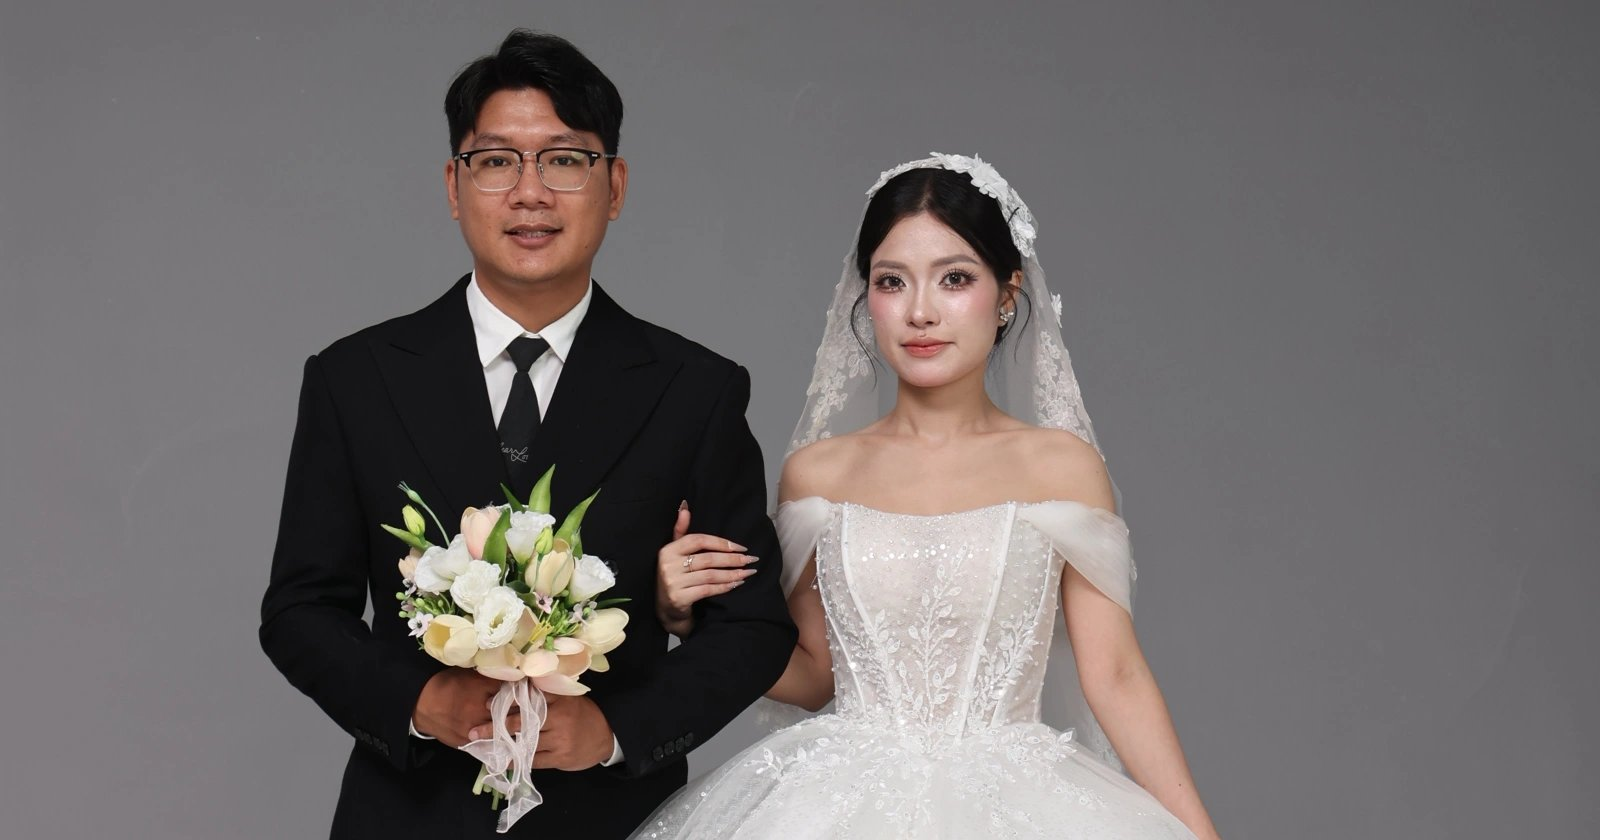
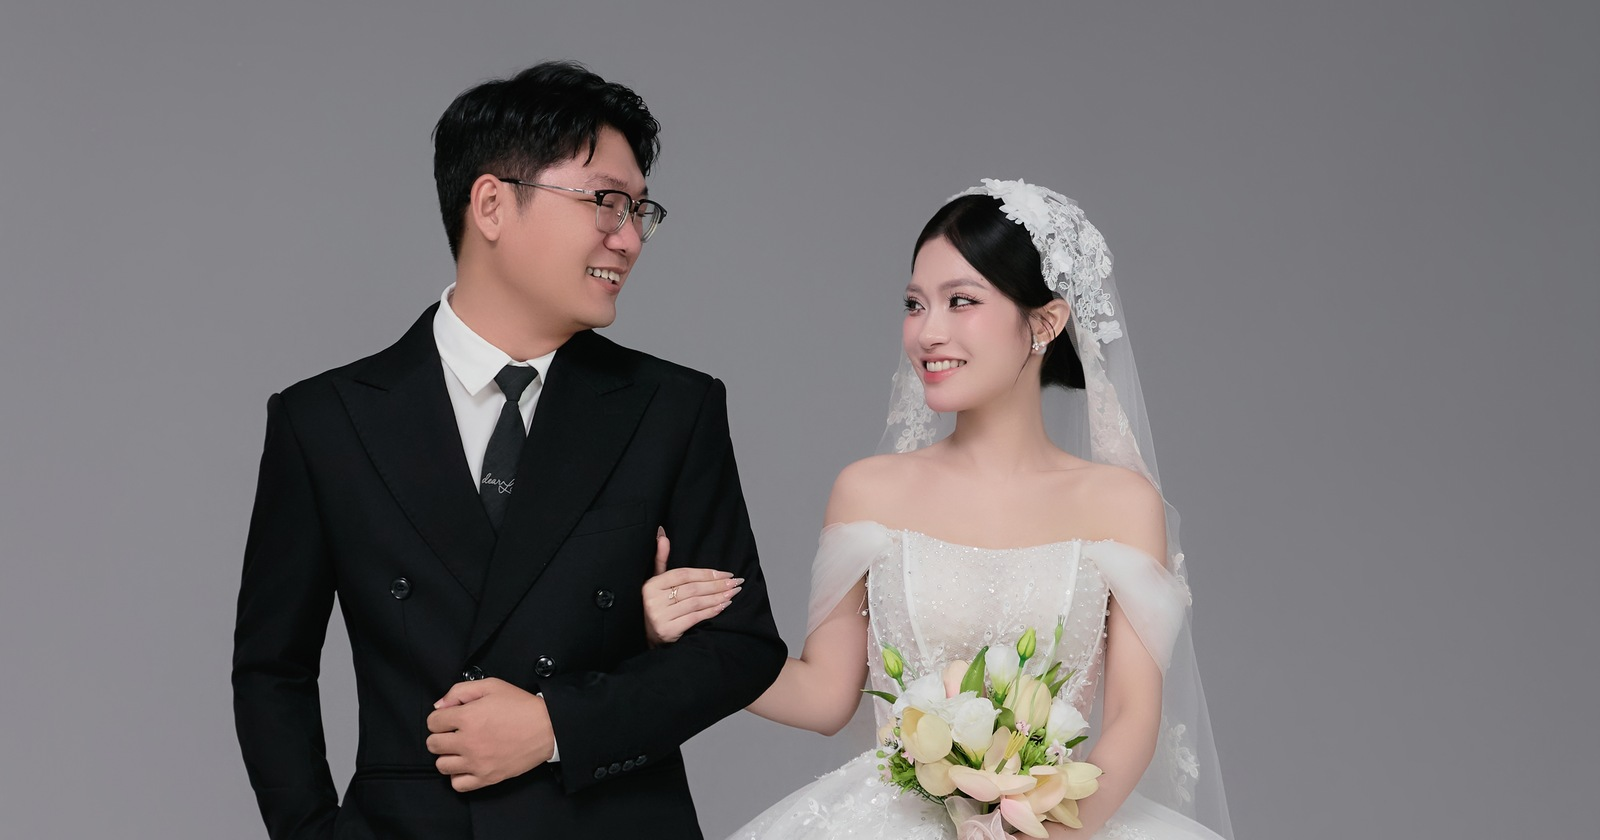
Cap nhat noi dung le cuoi va anh og-cover moi

Changed region(s): [[0.125, 0.031, 0.7812, 1.0], [0.9688, 0.0, 1.0, 0.031]]

diff --git a/index.html b/index.html
@@ -13,10 +13,11 @@
   <meta property="og:title" content="Mạnh Dưỡng & Quỳnh Như — Thiệp Cưới Online">
   <meta property="og:description"
     content="Kính mời quý khách đến dự lễ cưới của Mạnh Dưỡng &amp; Quỳnh Như | Chủ Nhật, 18 tháng 10, 2026 | Nhà thờ Trung Lao, Ninh Bình">
-  <!-- Facebook/Zalo bắt buộc URL tuyệt đối, không nhận đường dẫn tương đối.
-       Nếu sau này đổi tên repo hoặc dùng tên miền riêng, phải sửa 2 dòng dưới. -->
-  <meta property="og:url" content="https://vudinhduy26.github.io/manhduong-quynhnhu/">
-  <meta property="og:image" content="https://vudinhduy26.github.io/manhduong-quynhnhu/images/og-cover.jpg">
+  <!-- Facebook/Zalo bắt buộc URL tuyệt đối, không nhận đường dẫn tương đối. -->
+  <meta property="og:url" content="https://manhduong941.github.io/manhduongquynhnhu/">
+  <meta property="og:image" content="https://manhduong941.github.io/manhduongquynhnhu/images/og-cover.jpg?v=2">
+  <meta property="og:image:secure_url" content="https://manhduong941.github.io/manhduongquynhnhu/images/og-cover.jpg?v=2">
+  <meta property="og:image:type" content="image/jpeg">
   <meta property="og:image:width" content="1600">
   <meta property="og:image:height" content="840">
 
@@ -164,7 +165,7 @@
                 <span>Ông Nguyễn Văn Viên</span>
                 <span>Bà Vũ Thị Hồng</span>
               </p>
-              <p class="parents-address">Trung Lao, Xã Cổ Lễ, Ninh Bình</p>
+              <p class="parents-address">Xóm 3, Trung Lao, Xã Cổ Lễ, Tỉnh Ninh Bình</p>
             </div>
 
             <div class="parents-divider" aria-hidden="true"></div>
@@ -175,7 +176,7 @@
                 <span>Ông Vũ Đình Việt</span>
                 <span>Bà Phạm Thị Phương</span>
               </p>
-              <p class="parents-address">129 đường Hữu Nghị, Xã Cổ Lễ, Tỉnh Ninh Bình</p>
+              <p class="parents-address">Số 129 đường Hữu Nghị, Xã Cổ Lễ, Tỉnh Ninh Bình</p>
             </div>
           </div>
 
@@ -192,15 +193,43 @@
           </div>
 
           <div class="ceremony-strip">
-            <p class="ceremony-strip-label">Lễ thành hôn được cử hành tại</p>
-            <p class="ceremony-strip-place">Nhà Thờ Trung Lao</p>
-            <p class="ceremony-strip-sub">Trung Lao, Xã Cổ Lễ, Tỉnh Ninh Bình</p>
-            <div class="ceremony-date-block">
-              <span class="ceremony-date-day">18</span>
-              <span class="ceremony-date-rest">Tháng 10<br>2026</span>
+            <p class="ceremony-strip-label">Lễ Thành Hôn</p>
+
+            <div class="ceremony-leaf-decor" aria-hidden="true">
+              <svg width="68" height="24" viewBox="0 0 120 40" fill="none">
+                <path d="M12 20 C40 18, 80 18, 108 20" stroke="var(--gold)" stroke-width="1.4" stroke-linecap="round" />
+                <path d="M28 19 C24 9, 36 10, 37 19" fill="var(--gold)" fill-opacity="0.45" stroke="var(--gold)" stroke-width="1" />
+                <path d="M48 19 C45 8, 58 8, 57 19" fill="var(--gold)" fill-opacity="0.45" stroke="var(--gold)" stroke-width="1" />
+                <path d="M68 19 C66 7, 78 8, 77 19" fill="var(--gold)" fill-opacity="0.45" stroke="var(--gold)" stroke-width="1" />
+                <path d="M88 19 C87 9, 98 10, 96 19" fill="var(--gold)" fill-opacity="0.45" stroke="var(--gold)" stroke-width="1" />
+                <path d="M20 21 C17 30, 29 30, 29 21" fill="var(--gold)" fill-opacity="0.45" stroke="var(--gold)" stroke-width="1" />
+                <path d="M40 21 C38 31, 50 31, 49 21" fill="var(--gold)" fill-opacity="0.45" stroke="var(--gold)" stroke-width="1" />
+                <path d="M60 21 C58 32, 70 32, 69 21" fill="var(--gold)" fill-opacity="0.45" stroke="var(--gold)" stroke-width="1" />
+                <path d="M80 21 C79 31, 91 30, 89 21" fill="var(--gold)" fill-opacity="0.45" stroke="var(--gold)" stroke-width="1" />
+              </svg>
             </div>
-            <p class="ceremony-strip-time">Vào lúc 11:00 &nbsp;·&nbsp; Chủ Nhật</p>
-            <p class="ceremony-lunar-date">(Tức ngày 8 tháng 9 năm Bính Ngọ)</p>
+
+            <div class="ceremony-dual-grid">
+              <div class="ceremony-col">
+                <h3 class="ceremony-col-title">THÁNH LỄ HÔN PHỐI</h3>
+                <p class="ceremony-col-place">NHÀ THỜ TRUNG LAO</p>
+                <p class="ceremony-col-address">XÃ CỔ LỄ, TỈNH NINH BÌNH</p>
+                <p class="ceremony-col-time">VÀO LÚC: 16 GIỜ 30 - THỨ BẢY</p>
+                <div class="ceremony-col-date">17 . 10 . 2026</div>
+                <p class="ceremony-col-lunar">(NHẰM NGÀY 08.09 NĂM BÍNH NGỌ)</p>
+              </div>
+
+              <div class="ceremony-divider" aria-hidden="true"></div>
+
+              <div class="ceremony-col">
+                <h3 class="ceremony-col-title">ĐÓN DÂU</h3>
+                <p class="ceremony-col-place">TẠI: TƯ GIA NHÀ GÁI</p>
+                <p class="ceremony-col-address">XÃ CỔ LỄ, TỈNH NINH BÌNH</p>
+                <p class="ceremony-col-time">VÀO LÚC: 10 GIỜ 00 - CHỦ NHẬT</p>
+                <div class="ceremony-col-date">18 . 10 . 2026</div>
+                <p class="ceremony-col-lunar">(NHẰM NGÀY 09.09 NĂM BÍNH NGỌ)</p>
+              </div>
+            </div>
           </div>
         </article>
       </div>
@@ -427,13 +456,13 @@
 
           <div class="map-frame">
             <iframe
-              src="https://www.google.com/maps?q=129%20%C4%91%C6%B0%E1%BB%9Dng%20H%E1%BB%AFu%20Ngh%E1%BB%8B%2C%20X%C3%A3%20C%E1%BB%95%20L%E1%BB%85%2C%20T%E1%BB%89nh%20Ninh%20B%C3%ACnh&output=embed"
+              src="https://www.google.com/maps?q=S%E1%BB%91%20129%20%C4%91%C6%B0%E1%BB%9Dng%20H%E1%BB%AFu%20Ngh%E1%BB%8B%2C%20X%C3%A3%20C%E1%BB%95%20L%E1%BB%85%2C%20T%E1%BB%89nh%20Ninh%20B%C3%ACnh&output=embed"
               width="100%" height="220" style="border:0;" allowfullscreen="" loading="lazy"
               referrerpolicy="no-referrer-when-downgrade" title="Bản đồ địa điểm tiệc cưới"></iframe>
           </div>
 
           <div class="ceremony-actions">
-            <a href="https://www.google.com/maps/search/?api=1&amp;query=129%20%C4%91%C6%B0%E1%BB%9Dng%20H%E1%BB%AFu%20Ngh%E1%BB%8B%2C%20X%C3%A3%20C%E1%BB%95%20L%E1%BB%85%2C%20T%E1%BB%89nh%20Ninh%20B%C3%ACnh"
+            <a href="https://www.google.com/maps/search/?api=1&amp;query=S%E1%BB%91%20129%20%C4%91%C6%B0%E1%BB%9Dng%20H%E1%BB%AFu%20Ngh%E1%BB%8B%2C%20X%C3%A3%20C%E1%BB%95%20L%E1%BB%85%2C%20T%E1%BB%89nh%20Ninh%20B%C3%ACnh"
               target="_blank" rel="noopener" class="btn-action btn-primary">
               <svg width="16" height="16" viewBox="0 0 24 24" fill="none" stroke="currentColor" stroke-width="2">
                 <path d="M12 2C8.13 2 5 5.13 5 9c0 5.25 7 13 7 13s7-7.75 7-13c0-3.87-3.13-7-7-7z" />

diff --git a/styles.css b/styles.css
@@ -981,72 +981,149 @@ html.no-scroll body {
 }
 
 /* -- Ceremony strip inside the wedding info card -- */
+.ceremony-strip {
+  padding-top: 4px;
+}
+
 .ceremony-strip-label {
   font-family: var(--font-label);
   font-size: 0.78rem;
-  letter-spacing: 2px;
+  letter-spacing: 2.5px;
   text-transform: uppercase;
-  color: var(--text-cream-dim);
-  margin-bottom: 6px;
-}
-
-.ceremony-strip-place {
-  font-family: var(--font-serif);
-  font-size: 1.45rem;
+  color: var(--gold-light);
+  margin-bottom: 8px;
   font-weight: 600;
-  color: var(--text-cream);
-  margin-bottom: 4px;
 }
 
-.ceremony-strip-sub {
-  font-family: var(--font-body);
-  font-size: 0.82rem;
-  font-style: italic;
-  color: var(--text-cream-faint);
-  margin-bottom: 18px;
-}
-
-.ceremony-date-block {
-  display: inline-flex;
+.ceremony-leaf-decor {
+  display: flex;
   align-items: center;
-  gap: 12px;
-  background: rgba(236, 228, 216, 0.94);
-  color: var(--red);
-  border-radius: 10px;
-  padding: 8px 22px;
-  margin-bottom: 12px;
+  justify-content: center;
+  margin: 0 auto 14px;
+  color: var(--gold);
 }
 
-.ceremony-date-day {
-  font-family: 'Times New Roman', Times, serif;
-  font-size: 2.4rem;
-  font-weight: 700;
-  line-height: 1;
+.ceremony-leaf-decor svg {
+  width: 52px;
+  height: auto;
+  opacity: 0.88;
 }
 
-.ceremony-date-rest {
-  font-family: 'Times New Roman', Times, serif;
-  font-size: 0.85rem;
-  letter-spacing: 1.5px;
+.ceremony-dual-grid {
+  display: grid;
+  grid-template-columns: 1fr auto 1fr;
+  align-items: stretch;
+  gap: 14px;
+  text-align: center;
+}
+
+.ceremony-divider {
+  width: 1px;
+  align-self: stretch;
+  background: linear-gradient(to bottom, transparent, rgba(236, 228, 216, 0.3) 15%, rgba(236, 228, 216, 0.3) 85%, transparent);
+}
+
+.ceremony-col {
+  display: flex;
+  flex-direction: column;
+  align-items: center;
+  justify-content: flex-start;
+}
+
+.ceremony-col-title {
+  font-family: var(--font-serif);
+  font-size: 0.82rem;
+  font-weight: 600;
+  letter-spacing: 1.2px;
   text-transform: uppercase;
-  text-align: left;
-  line-height: 1.2;
+  color: var(--gold-light);
+  margin-bottom: 4px;
+  line-height: 1.3;
 }
 
-.ceremony-strip-time {
+.ceremony-col-place {
+  font-family: var(--font-serif);
+  font-size: 0.84rem;
+  font-weight: 600;
+  letter-spacing: 0.8px;
+  text-transform: uppercase;
+  color: var(--text-cream);
+  margin-bottom: 3px;
+  line-height: 1.3;
+}
+
+.ceremony-col-address {
   font-family: var(--font-body);
-  font-size: 0.88rem;
+  font-size: 0.72rem;
+  color: var(--text-cream-dim);
+  letter-spacing: 0.3px;
+  text-transform: uppercase;
+  margin-bottom: 8px;
+  line-height: 1.35;
+}
+
+.ceremony-col-time {
+  font-family: var(--font-body);
+  font-size: 0.75rem;
   color: var(--text-cream);
   font-weight: 500;
-  margin-bottom: 4px;
+  letter-spacing: 0.3px;
+  text-transform: uppercase;
+  margin-bottom: 6px;
+  line-height: 1.35;
 }
 
-.ceremony-lunar-date {
+.ceremony-col-date {
+  font-family: var(--font-serif);
+  font-size: 1.12rem;
+  font-weight: 600;
+  letter-spacing: 2px;
+  color: #ffffff;
+  text-shadow: 0 1px 6px rgba(0, 0, 0, 0.3);
+  margin-bottom: 4px;
+  line-height: 1.15;
+}
+
+.ceremony-col-lunar {
   font-family: var(--font-body);
-  font-size: 0.78rem;
+  font-size: 0.66rem;
   color: var(--text-cream-dim);
   font-style: italic;
-  letter-spacing: 0.5px;
+  letter-spacing: 0.3px;
+  text-transform: uppercase;
+  line-height: 1.3;
+}
+
+@media (max-width: 480px) {
+  .ceremony-dual-grid {
+    gap: 8px;
+  }
+
+  .ceremony-col-title {
+    font-size: 0.76rem;
+    letter-spacing: 0.8px;
+  }
+
+  .ceremony-col-place {
+    font-size: 0.78rem;
+  }
+
+  .ceremony-col-address {
+    font-size: 0.68rem;
+  }
+
+  .ceremony-col-time {
+    font-size: 0.7rem;
+  }
+
+  .ceremony-col-date {
+    font-size: 1rem;
+    letter-spacing: 1.5px;
+  }
+
+  .ceremony-col-lunar {
+    font-size: 0.62rem;
+  }
 }
 
 /* ==========================================================================

diff --git a/app.js b/app.js
@@ -550,8 +550,8 @@ document.addEventListener('DOMContentLoaded', () => {
   if (btnAddCalendar) {
     btnAddCalendar.addEventListener('click', () => {
       const title = encodeURIComponent('Lễ Cưới Mạnh Dưỡng & Quỳnh Như');
-      const details = encodeURIComponent('Trân trọng kính mời quý khách đến dự tiệc cưới của Mạnh Dưỡng & Quỳnh Như tại 129 đường Hữu Nghị, Xã Cổ Lễ, Tỉnh Ninh Bình.');
-      const location = encodeURIComponent('129 đường Hữu Nghị, Xã Cổ Lễ, Tỉnh Ninh Bình');
+      const details = encodeURIComponent('Trân trọng kính mời quý khách đến dự tiệc cưới của Mạnh Dưỡng & Quỳnh Như tại Số 129 đường Hữu Nghị, Xã Cổ Lễ, Tỉnh Ninh Bình.');
+      const location = encodeURIComponent('Số 129 đường Hữu Nghị, Xã Cổ Lễ, Tỉnh Ninh Bình');
       const dates = '20261018T040000Z/20261018T060000Z'; // UTC 11:00 AM VN time
 
       const googleCalUrl = `https://calendar.google.com/calendar/render?action=TEMPLATE&text=${title}&details=${details}&location=${location}&dates=${dates}`;
